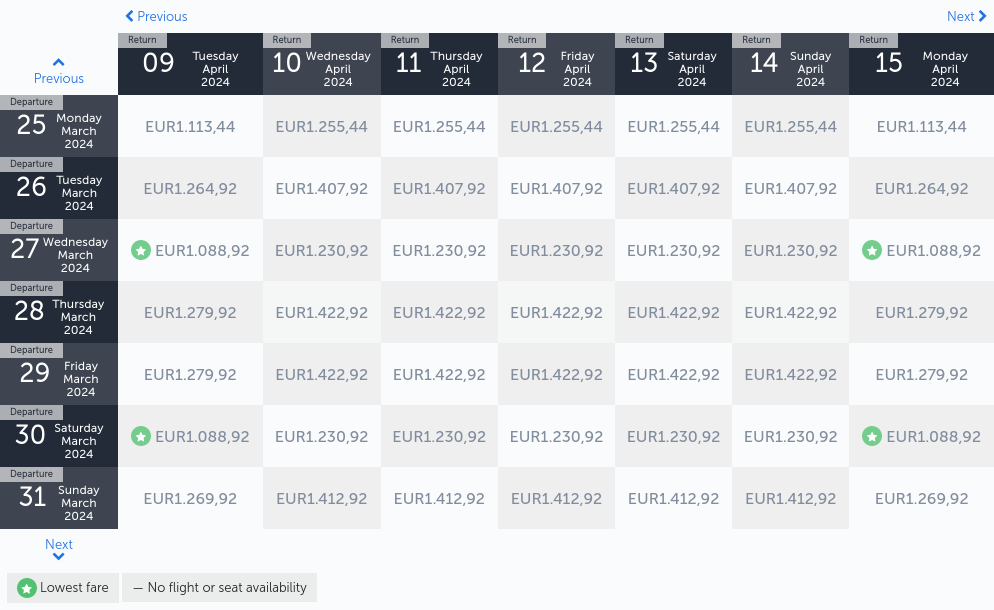
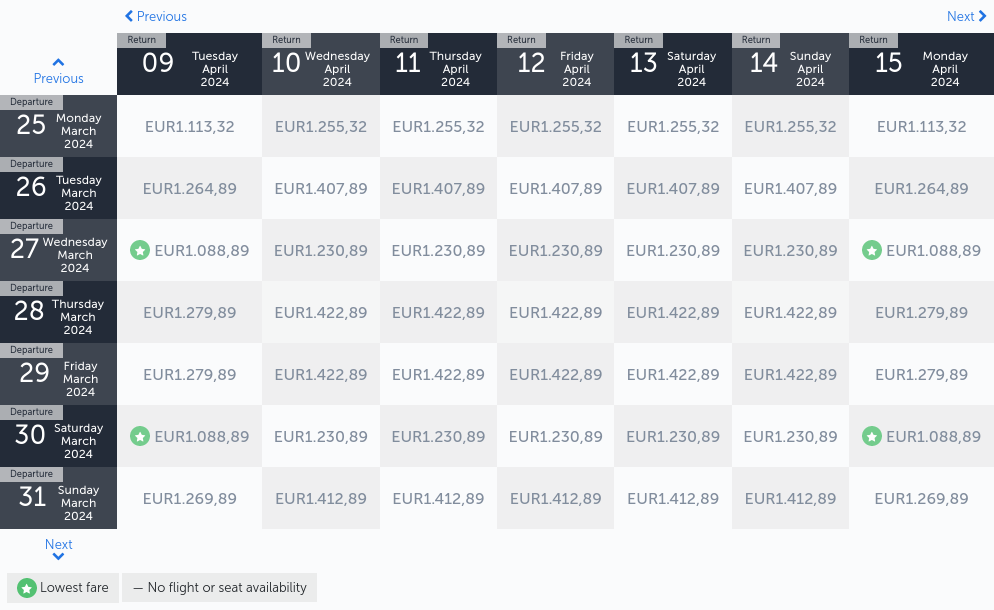
Latest scraping taiwan: Thu Jul 13 22:39:52 UTC 2023

diff --git a/scrapes/taiwan/turkish-airlines.md b/scrapes/taiwan/turkish-airlines.md
@@ -2,13 +2,13 @@
 | --- | --- |     |     |     |     |     |     | --- | --- | --- | --- | --- | --- |
 | Previous | Return<br><br>09 Tuesday April 2024 | Return<br><br>10 Wednesday April 2024 | Return<br><br>11 Thursday April 2024 | Return<br><br>12 Friday April 2024 | Return<br><br>13 Saturday April 2024 | Return<br><br>14 Sunday April 2024 | Return<br><br>15 Monday April 2024 |
 | --- | --- | --- | --- | --- | --- | --- | --- |
-| Departure<br><br>25 Monday March 2024 | 1.113,44 | 1.255,44 | 1.255,44 | 1.255,44 | 1.255,44 | 1.255,44 | 1.113,44 |
-| Departure<br><br>26 Tuesday March 2024 | 1.264,92 | 1.407,92 | 1.407,92 | 1.407,92 | 1.407,92 | 1.407,92 | 1.264,92 |
-| Departure<br><br>27 Wednesday March 2024 | 1.088,92 | 1.230,92 | 1.230,92 | 1.230,92 | 1.230,92 | 1.230,92 | 1.088,92 |
-| Departure<br><br>28 Thursday March 2024 | 1.279,92 | 1.422,92 | 1.422,92 | 1.422,92 | 1.422,92 | 1.422,92 | 1.279,92 |
-| Departure<br><br>29 Friday March 2024 | 1.279,92 | 1.422,92 | 1.422,92 | 1.422,92 | 1.422,92 | 1.422,92 | 1.279,92 |
-| Departure<br><br>30 Saturday March 2024 | 1.088,92 | 1.230,92 | 1.230,92 | 1.230,92 | 1.230,92 | 1.230,92 | 1.088,92 |
-| Departure<br><br>31 Sunday March 2024 | 1.269,92 | 1.412,92 | 1.412,92 | 1.412,92 | 1.412,92 | 1.412,92 | 1.269,92 |
+| Departure<br><br>25 Monday March 2024 | 1.113,32 | 1.255,32 | 1.255,32 | 1.255,32 | 1.255,32 | 1.255,32 | 1.113,32 |
+| Departure<br><br>26 Tuesday March 2024 | 1.264,89 | 1.407,89 | 1.407,89 | 1.407,89 | 1.407,89 | 1.407,89 | 1.264,89 |
+| Departure<br><br>27 Wednesday March 2024 | 1.088,89 | 1.230,89 | 1.230,89 | 1.230,89 | 1.230,89 | 1.230,89 | 1.088,89 |
+| Departure<br><br>28 Thursday March 2024 | 1.279,89 | 1.422,89 | 1.422,89 | 1.422,89 | 1.422,89 | 1.422,89 | 1.279,89 |
+| Departure<br><br>29 Friday March 2024 | 1.279,89 | 1.422,89 | 1.422,89 | 1.422,89 | 1.422,89 | 1.422,89 | 1.279,89 |
+| Departure<br><br>30 Saturday March 2024 | 1.088,89 | 1.230,89 | 1.230,89 | 1.230,89 | 1.230,89 | 1.230,89 | 1.088,89 |
+| Departure<br><br>31 Sunday March 2024 | 1.269,89 | 1.412,89 | 1.412,89 | 1.412,89 | 1.412,89 | 1.412,89 | 1.269,89 |
 | Next |
 | Lowest fare — No flight or seat availability |     |     |     |     |     |     |     |
 

diff --git a/scrapes/taiwan/emirates.md b/scrapes/taiwan/emirates.md
@@ -4,7 +4,7 @@
 | **Tuesday**<br><br>9 April | **997** | **997** | **997** | **1,307** | **1,397** | **1,332** | **1,307** |
 | **Wednesday**<br><br>10 April | **997** | **997** | **997** | **1,307** | **1,397** | **1,332** | **1,307** |
 | **Thursday**<br><br>11 April | **1,072** | **1,072** | **1,072** | **1,307** | **1,397** | **1,332** | **1,307** |
-| **Friday**<br><br>12 April | **1,032** | **1,032** | **1,032** | **1,307** | **1,397** | **1,332** | **1,307** |
+| **Friday**<br><br>12 April | **1,072** | **1,072** | **1,072** | **1,307** | **1,397** | **1,332** | **1,307** |
 | **Saturday**<br><br>13 April | **1,097** | **1,097** | **1,097** | **1,332** | **1,422** | **1,357** | **1,332** |
 | **Sunday**<br><br>14 April | **1,057** | **1,057** | **1,057** | **1,332** | **1,422** | **1,357** | **1,332** |
 | **Monday**<br><br>15 April | **1,032** | **1,032** | **1,032** | **1,307** | **1,397** | **1,332** | **1,307** |
